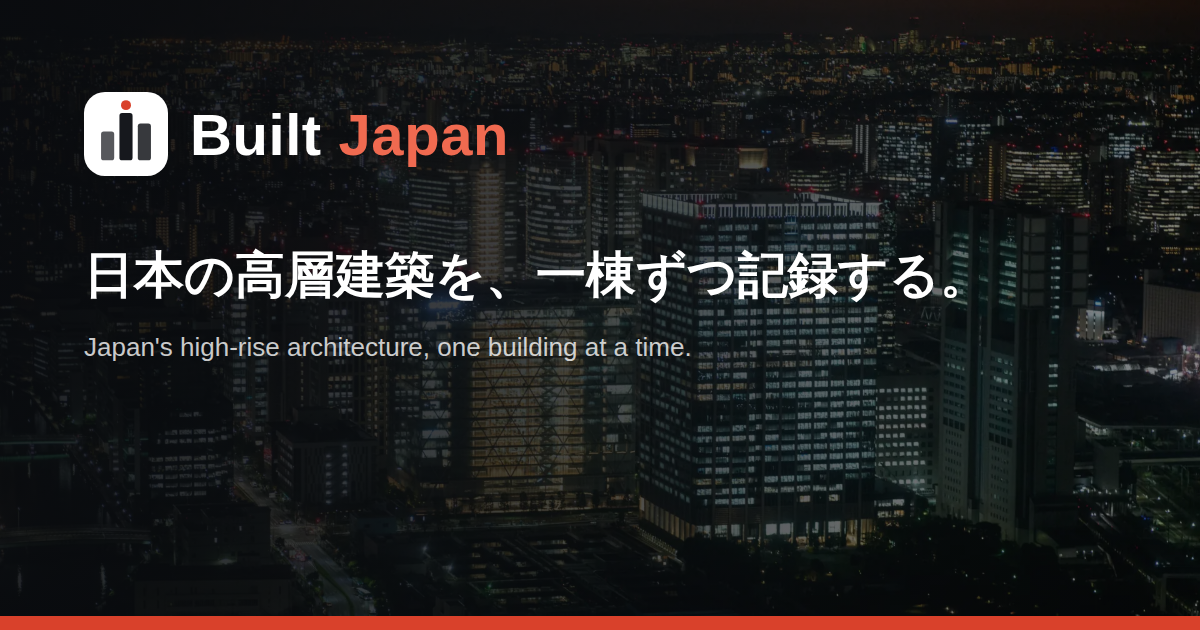
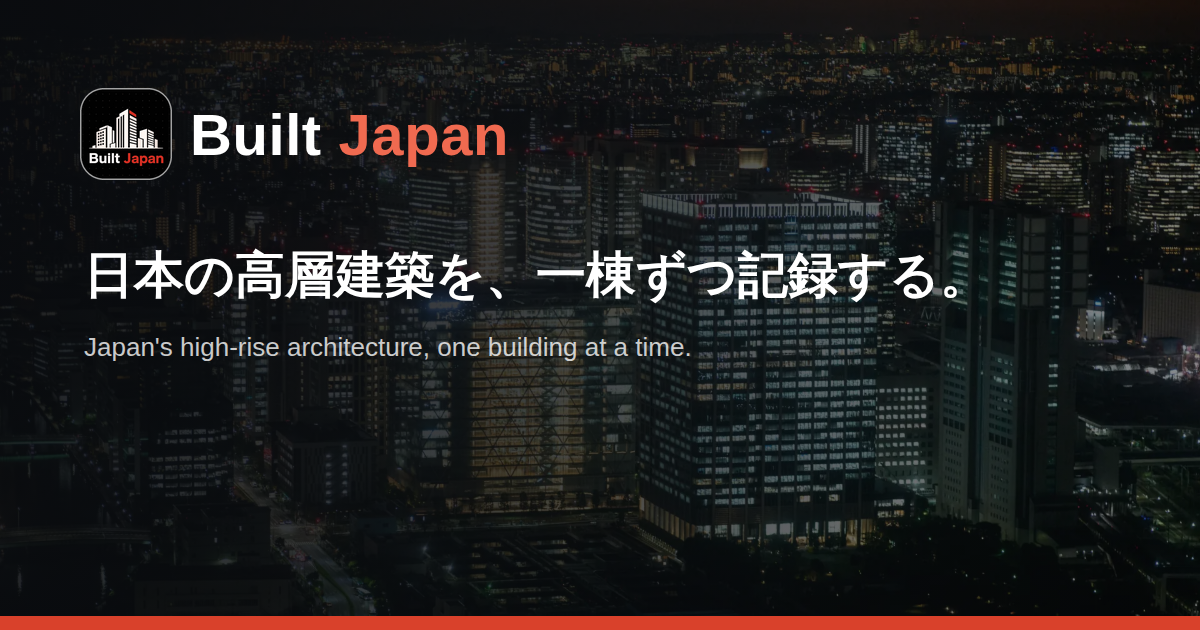
ヘッダー・フッターのロゴとOGP画像に新アイコンを使用
- Logo.astro を icon-192.png の画像表示に変更(フッターは暗い背景用に白い輪郭を付ける)
- ogp.png の左上のロゴマークを新アイコンに差し替え

Claude-Session: https://claude.ai/code/session_01GA2WHWXcdhjgmD1zBoEeqt

Changed region(s): [[0.0617, 0.1206, 0.1542, 0.3016]]

diff --git a/site/src/styles/global.css b/site/src/styles/global.css
@@ -70,7 +70,7 @@ h1, h2, h3, .brand { font-family: var(--font-display); }
 }
 .brand { display: inline-flex; align-items: center; gap: 10px; font-weight: 900; font-size: 1.12rem; letter-spacing: 0.01em; color: var(--text); flex: none; }
 .brand:hover { text-decoration: none; }
-.brand-mark { flex: none; display: block; }
+.brand-mark { flex: none; display: block; border-radius: 22%; }
 .brand-text { white-space: nowrap; }
 .brand-text span { color: var(--accent); }
 
@@ -610,8 +610,8 @@ html.drawer-open { overflow: hidden; }
   grid-template-columns: 1.6fr repeat(3, 1fr);
   gap: 28px 24px;
 }
-.footer-brand .brand { font-size: 1.1rem; color: #fff; --logo-bg: #fff; }
-.footer-brand .brand-mark rect:not(:first-child) { fill: var(--ink); }
+.footer-brand .brand { font-size: 1.1rem; color: #fff; }
+.footer-brand .brand-mark { box-shadow: 0 0 0 1px rgba(255, 255, 255, 0.4); } /* 暗いフッターでも輪郭が見えるように */
 .footer-col h2 {
   font-size: 0.8rem; font-weight: 700; color: #fff;
   margin: 0 0 10px; border: none; padding: 0; letter-spacing: 0.04em;
